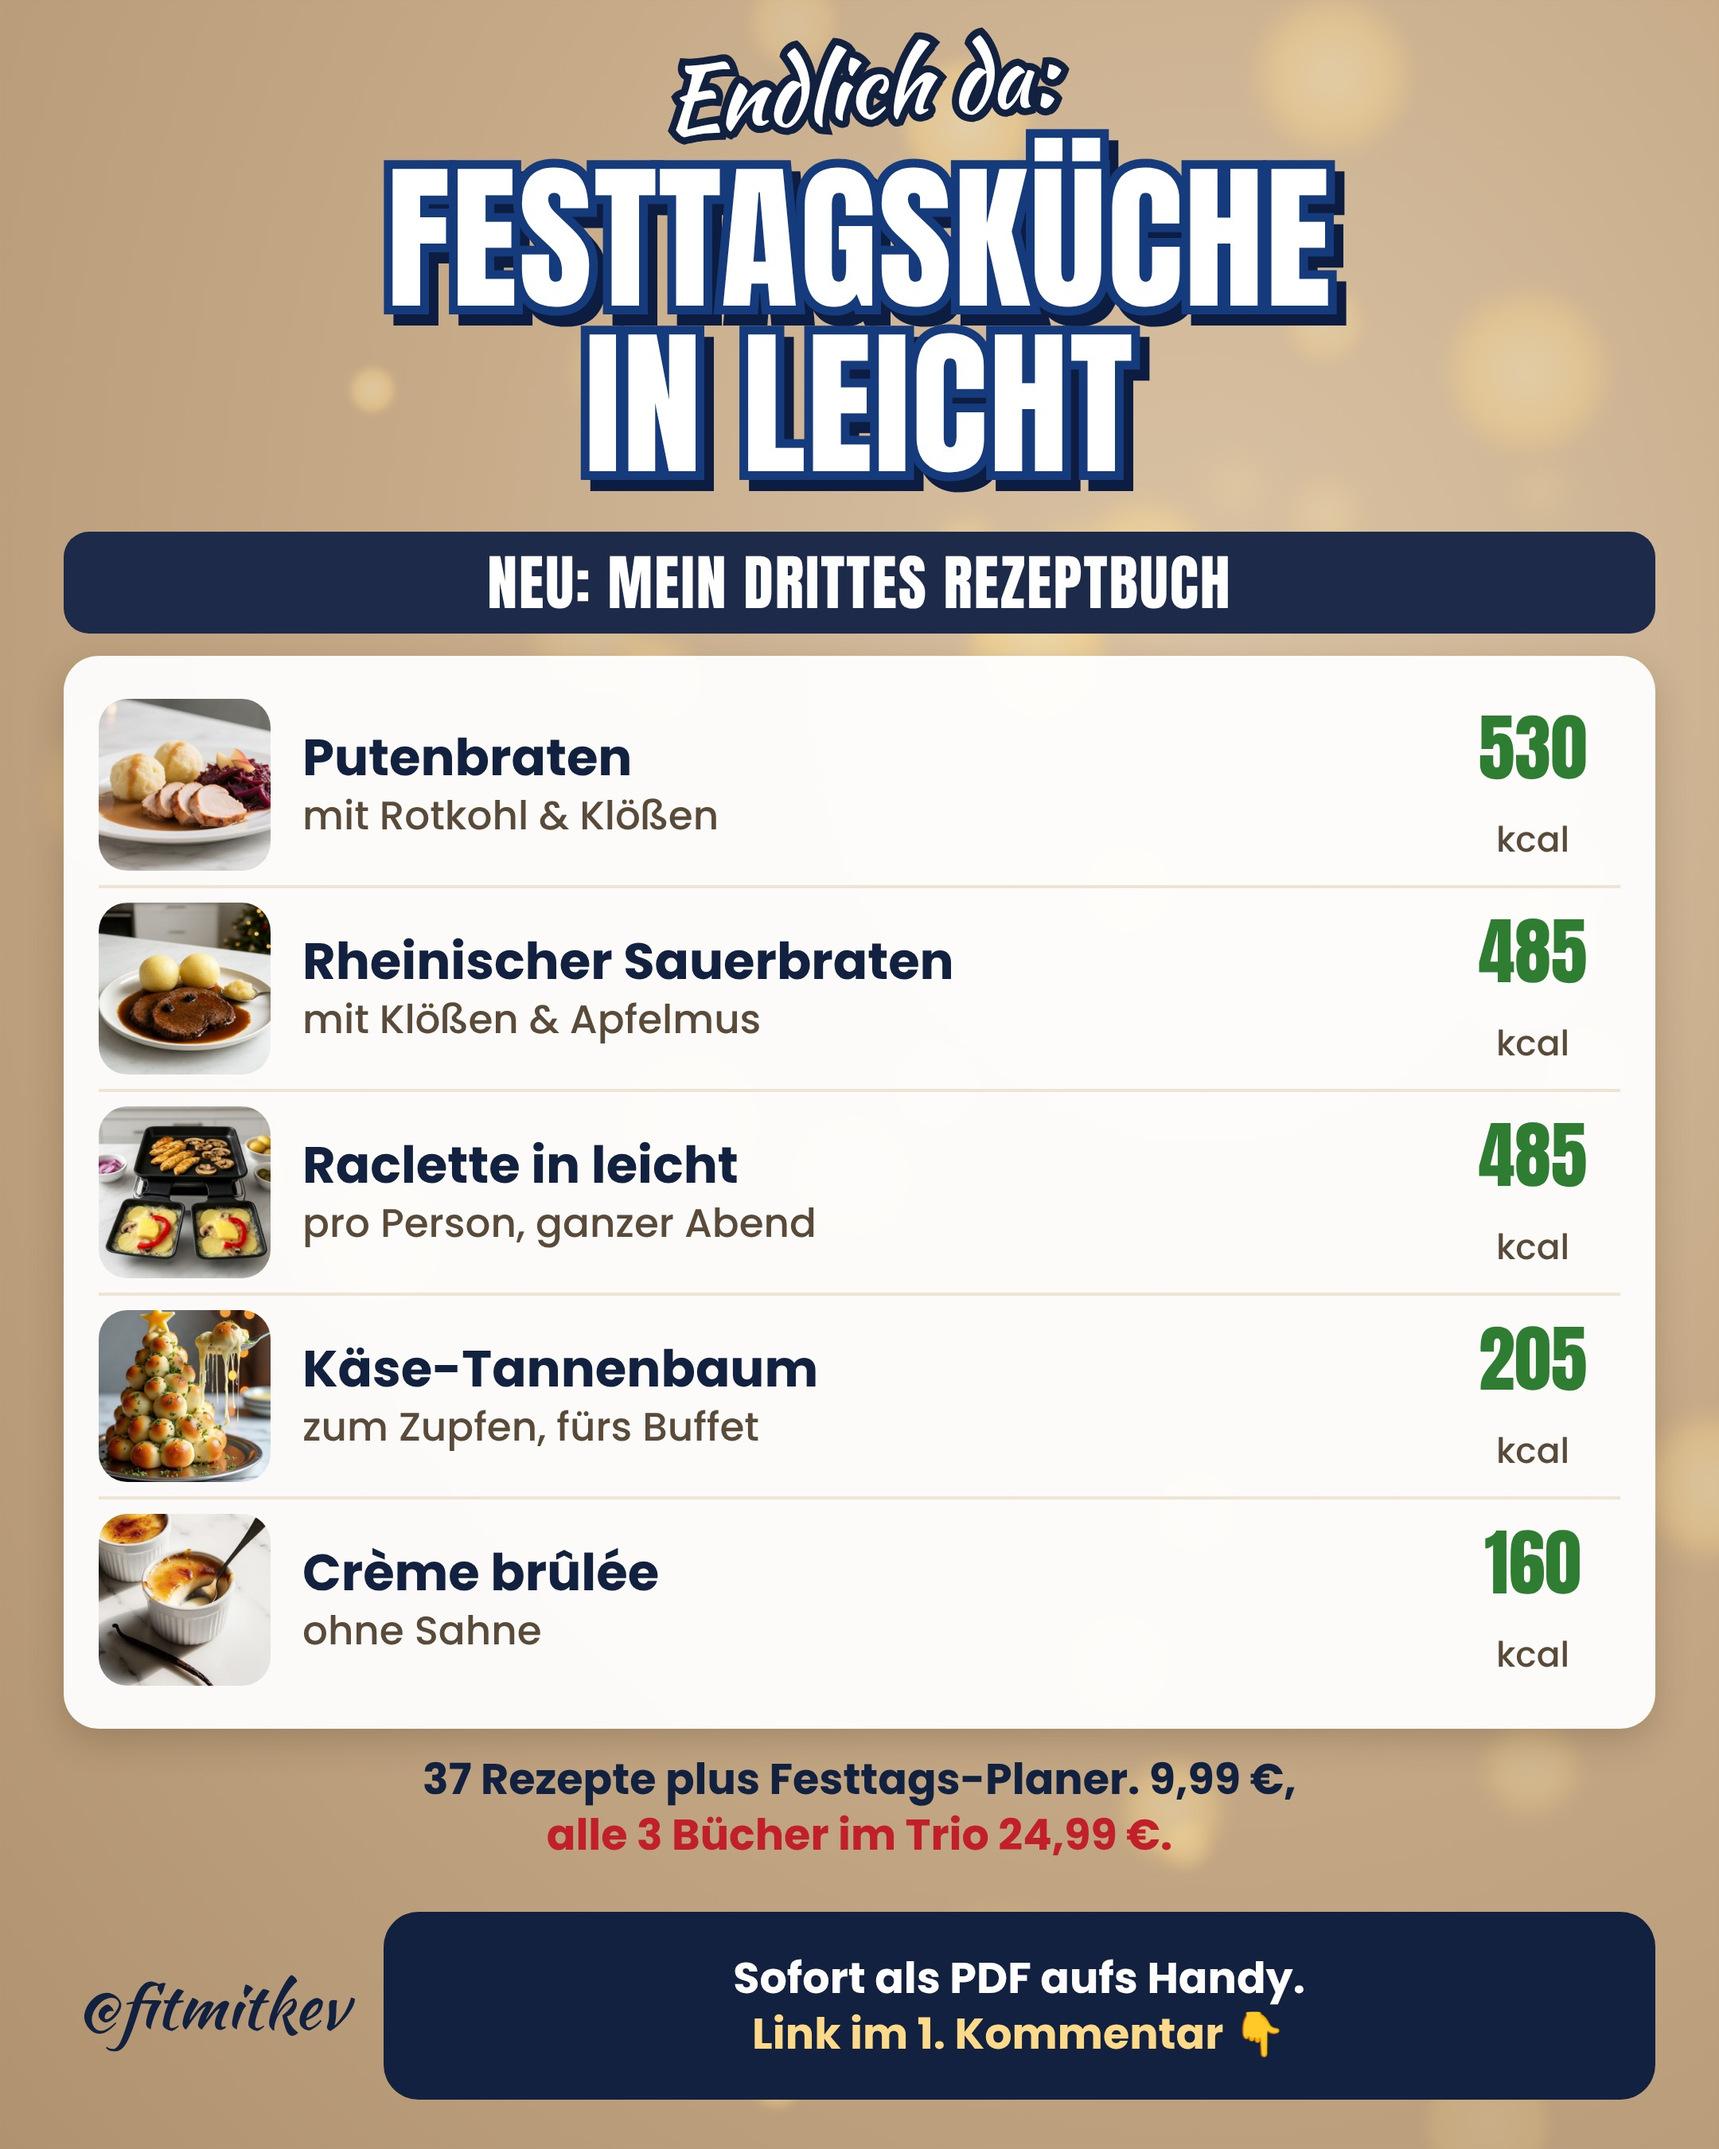
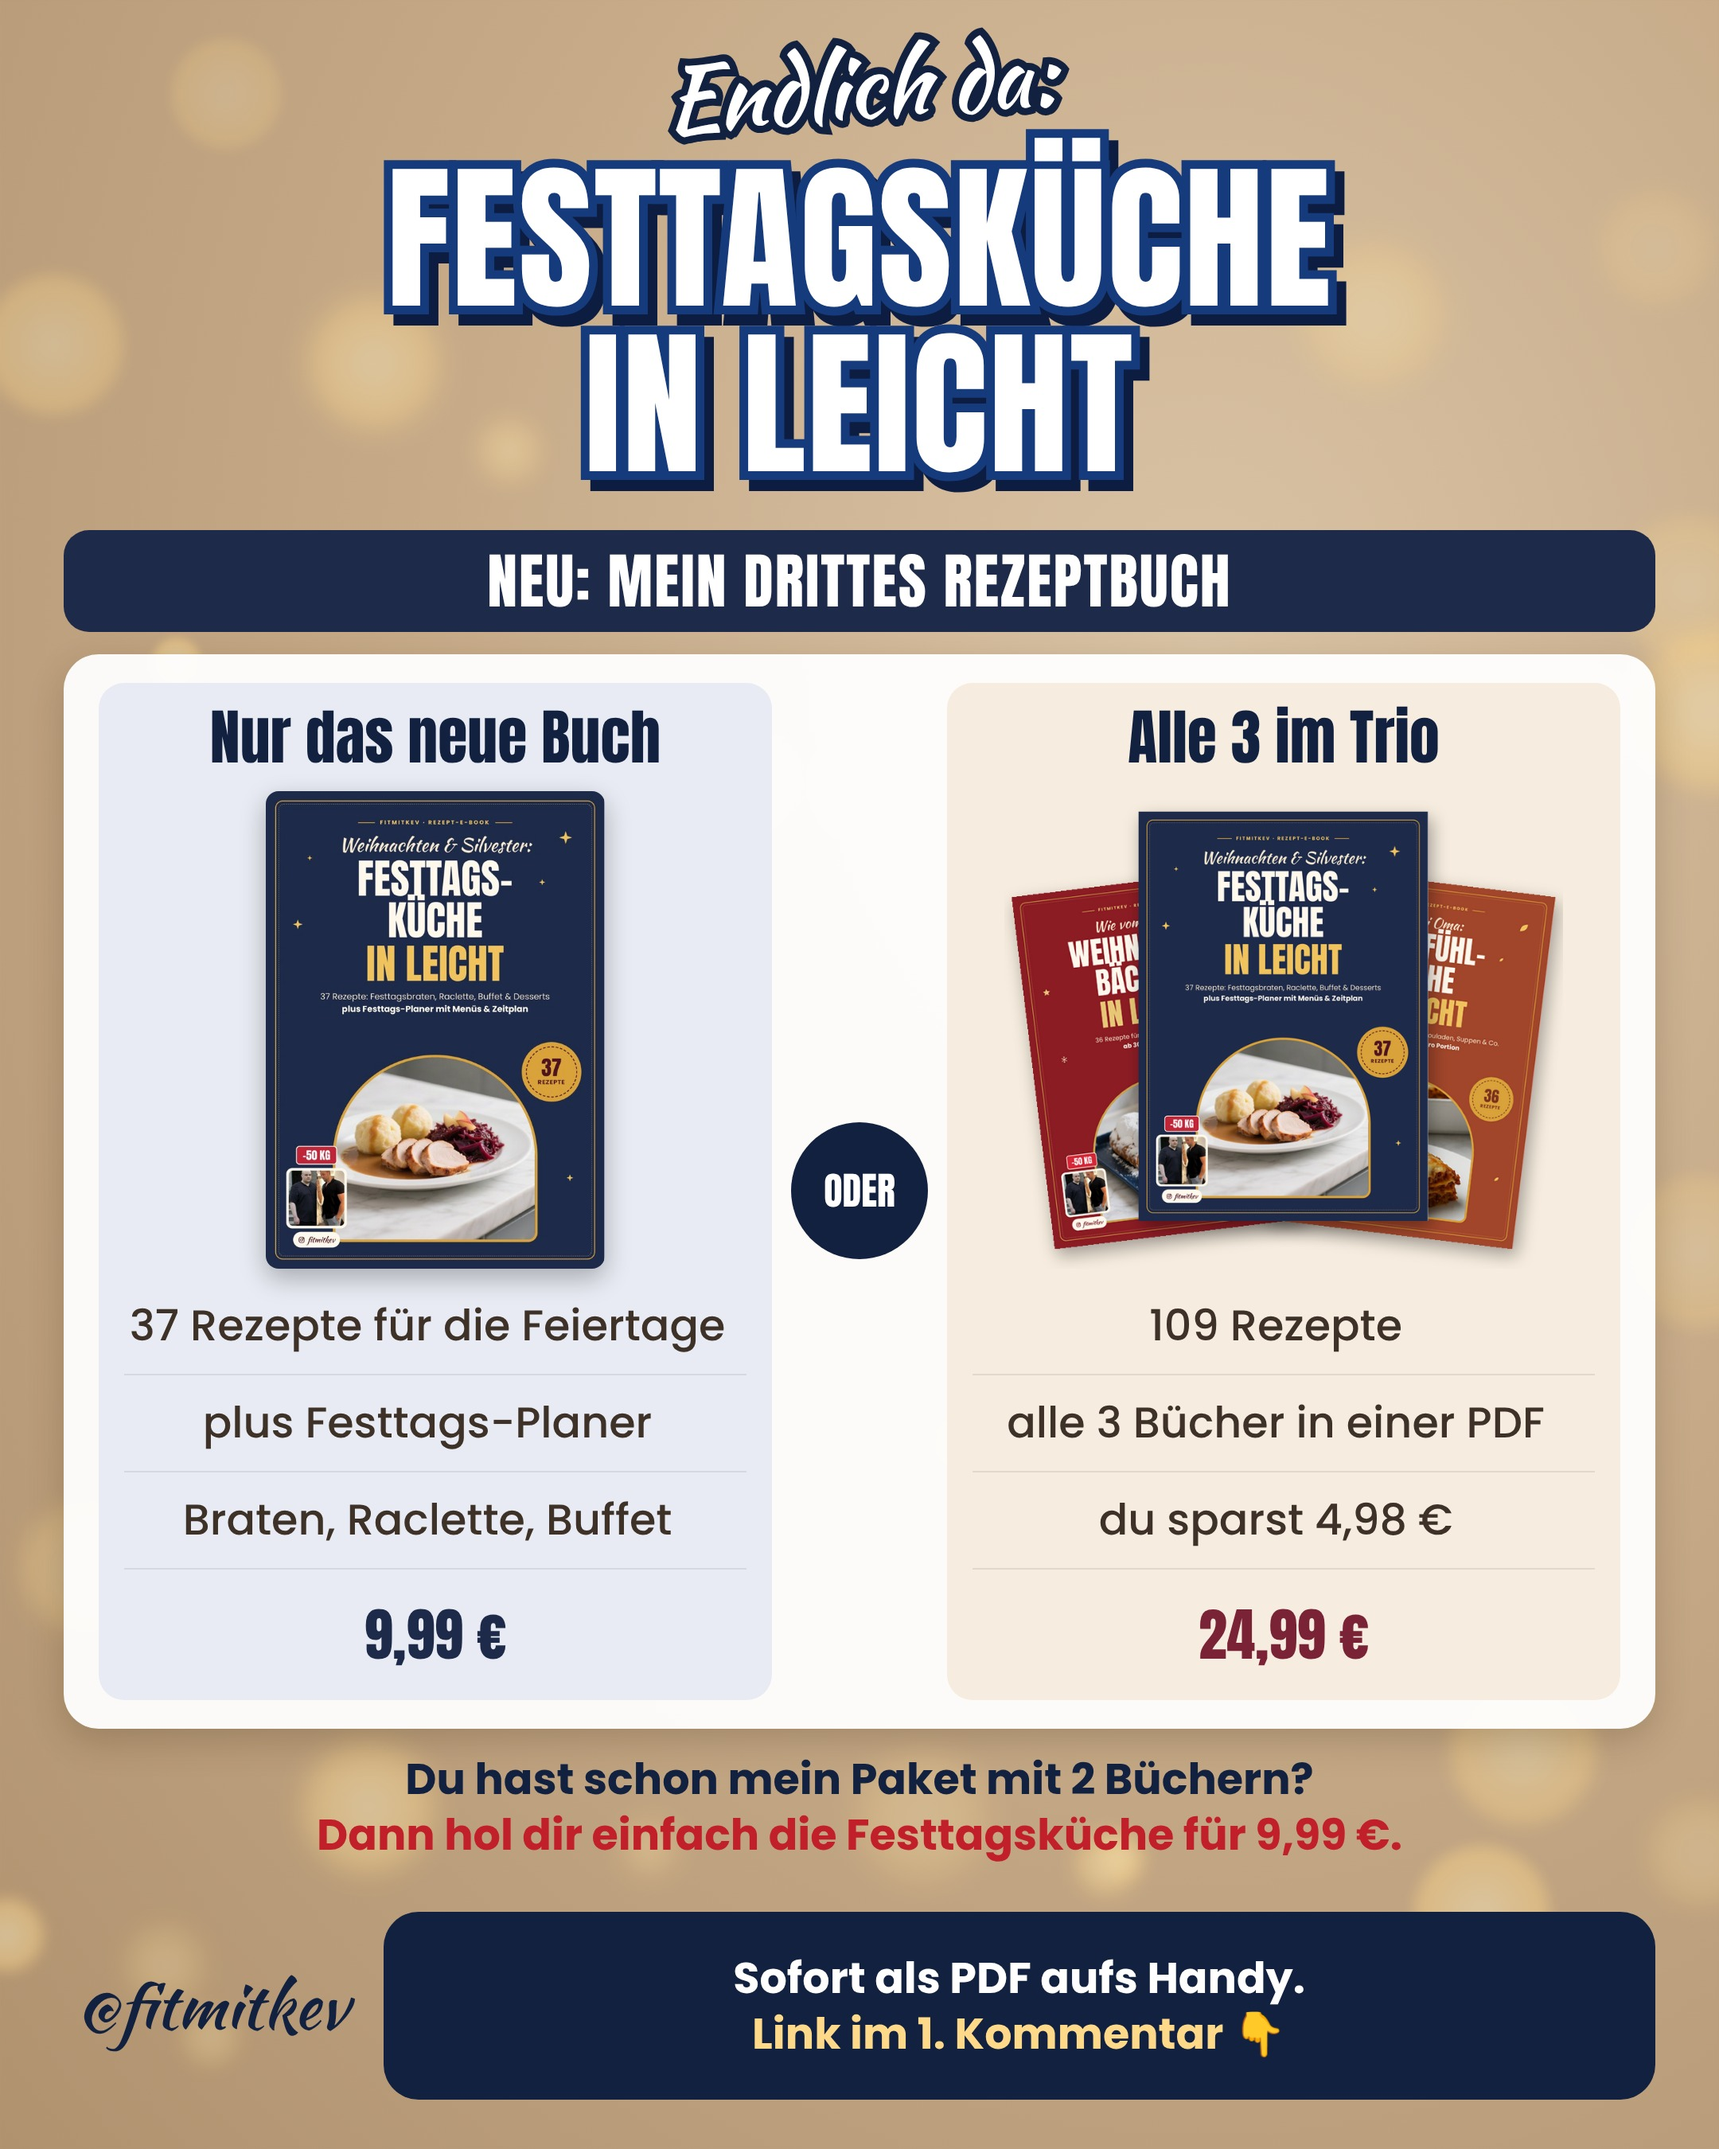
Festtagsküche F2: Launch als Info-Post mit Einzelbuch (9,99 €) und Trio (24,99 €) (Kev)
Claude-Session: https://claude.ai/code/session_01AjzXE4axeu25gzBAyxE5iT

diff --git a/tools/promo/festtag_launch.py b/tools/promo/festtag_launch.py
@@ -24,15 +24,12 @@ SPEC = {
    msg='Morgen um 20:15 Uhr<br><span>zeige ich dir alles.</span>',
    css='.pc img{height:250px;width:100%;object-fit:cover;border-radius:12px}.p2{font-size:22px}.msg{font-size:30px;line-height:1.3}'),
  'F2': dict(out='Buch-Sa-Festtag-Launch', hook='Endlich da:', title=['FESTTAGSKÜCHE', 'IN LEICHT'], size=100,
-   secs=[dict(lab='NEU: MEIN DRITTES REZEPTBUCH', col=NACHT, type='rows', d=[
-      (V + 'festtag-putenbraten.jpg', 'Putenbraten', 'mit Rotkohl & Klößen', KC(530)),
-      (V + 'festtag-sauerbraten.jpg', 'Rheinischer Sauerbraten', 'mit Klößen & Apfelmus', KC(485)),
-      (V + 'festtag-raclette.jpg', 'Raclette in leicht', 'pro Person, ganzer Abend', KC(485)),
-      (A + 'g69_G69KaeseBaum.jpg', 'Käse-Tannenbaum', 'zum Zupfen, fürs Buffet', KC(205)),
-      (V + 'festtag-creme-brulee.jpg', 'Crème brûlée', 'ohne Sahne', KC(160))])],
-   mid='37 Rezepte plus Festtags-Planer. 9,99 €,<br><span>alle 3 Bücher im Trio 24,99 €.</span>',
+   secs=[dict(lab='NEU: MEIN DRITTES REZEPTBUCH', col=NACHT, type='vs', d=dict(mid='ODER',
+      l=dict(title='Nur das neue Buch', img=V + 'festtag-cover-gross.jpg', rows=[('', '37 Rezepte für die Feiertage', ''), ('', 'plus Festtags-Planer', ''), ('', 'Braten, Raclette, Buffet', '')], sum='9,99 €'),
+      r=dict(title='Alle 3 im Trio', img=V + 'festtag-trio-covers.png', rows=[('', '109 Rezepte', ''), ('', 'alle 3 Bücher in einer PDF', ''), ('', 'du sparst 4,98 €', '')], sum='24,99 €')))],
+   mid='Du hast schon mein Paket mit 2 Büchern?<br><span>Dann hol dir einfach die Festtagsküche für 9,99 €.</span>',
    msg='Sofort als PDF aufs Handy.<br><span>Link im 1. Kommentar 👇</span>',
-   css=ROWS_CSS),
+   css='.vimg{height:300px;max-width:100%;object-fit:contain;margin:0 auto 6px;display:block}.vc.l .vimg{border-radius:8px;box-shadow:0 6px 16px rgba(0,0,0,.28)}.vc.l{background:#e8ebf3}.vc.r{background:#f6ecdf}.vc.l .vs{color:#1E2A4A}.vc.r .vs{color:#7A2236}.vsmid{font-size:24px;width:86px;height:86px}.vr2{justify-content:center;text-align:center}.vr2 .n{flex:none}.vh{margin-bottom:12px}.msg{font-size:27px;line-height:1.3}.mid{font-size:27px}'),
  'F3': dict(out='Buch-So-Festtag-Advent-Menue', hook='Zum 1. Advent:', title=['MEIN FESTMENÜ', 'IN LEICHT'], size=100,
    secs=[dict(lab='DREI GÄNGE, PRO PERSON', col=BORDEAUX, type='rows', d=[
       (V + 'festtag-kraftbruehe.jpg', 'Vorspeise', 'Rinderkraftbrühe mit Eierstich', KC(95)),
